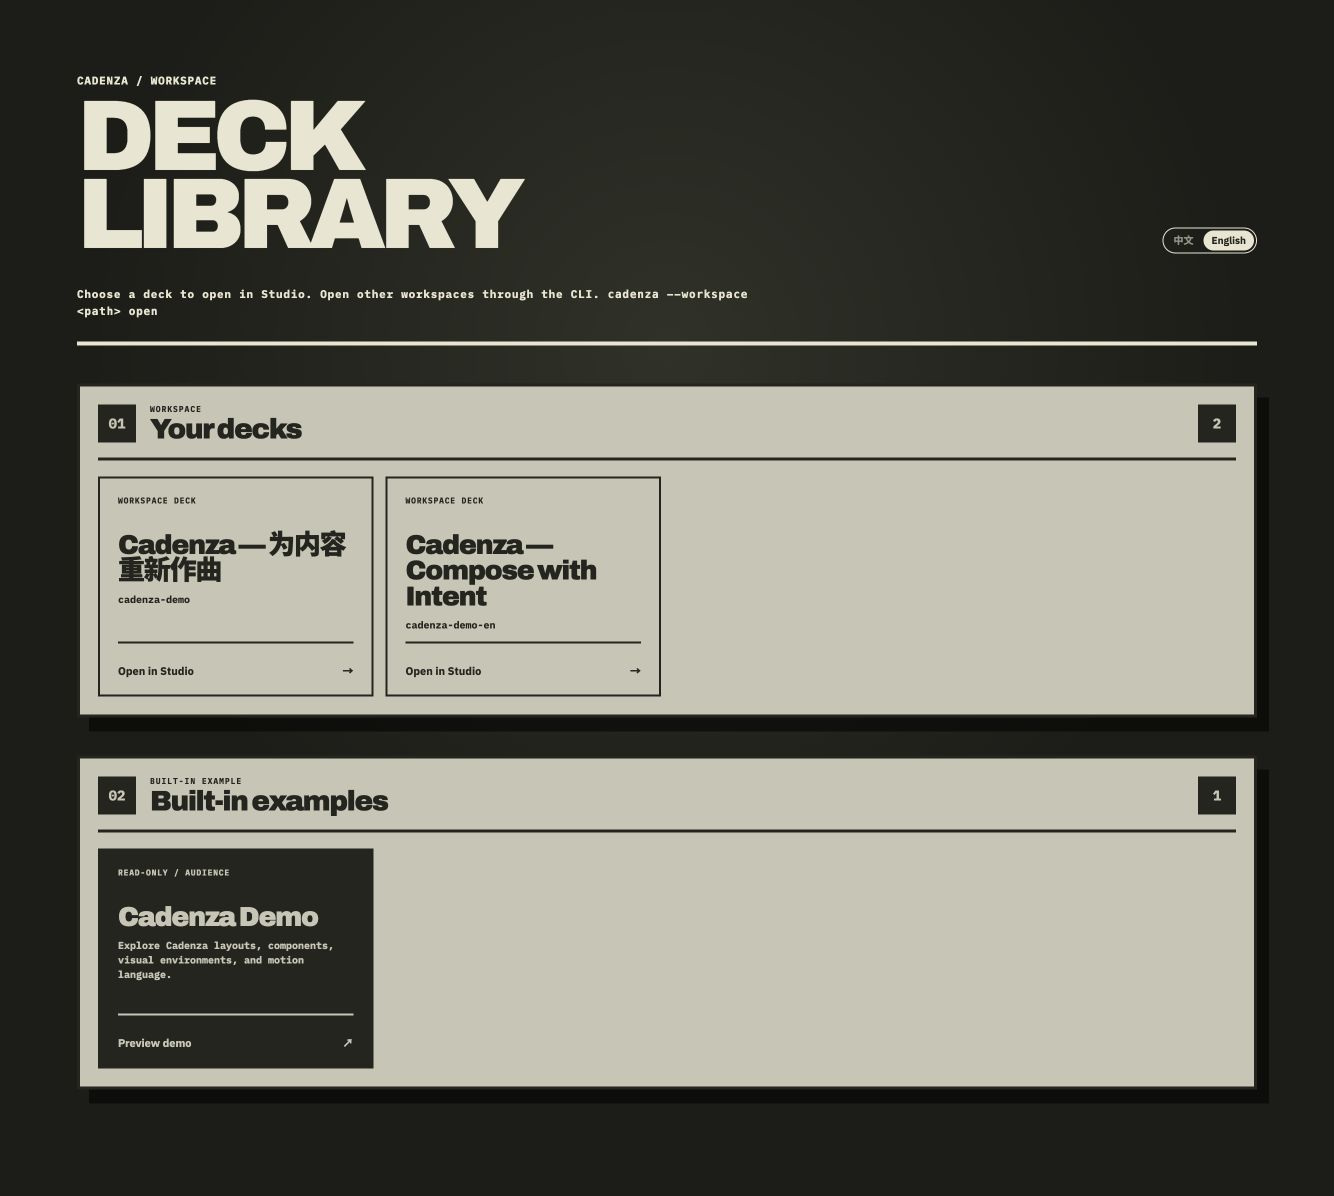
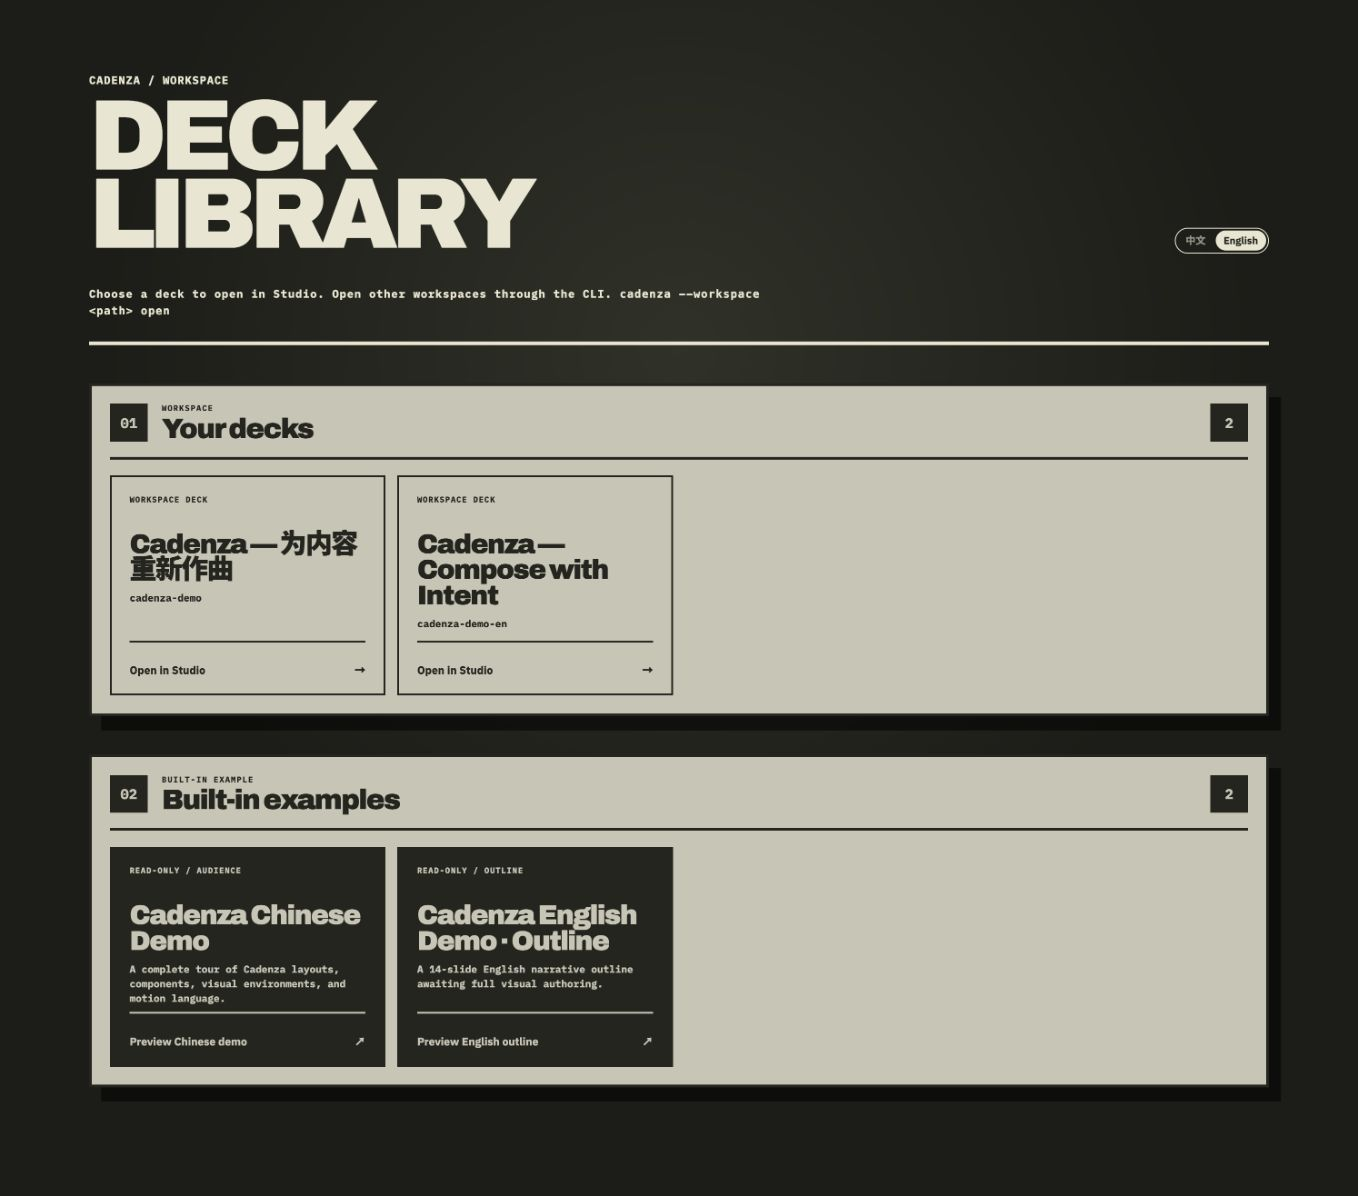
feat: offer Chinese and English demos

Changed region(s): [[0.0615, 0.3094, 0.9528, 0.9281], [0.0615, 0.0619, 0.3996, 0.2784], [0.8606, 0.1856, 0.9528, 0.2166]]

diff --git a/src/i18n/ui-locale.ts b/src/i18n/ui-locale.ts
@@ -22,7 +22,8 @@ const copy = {
       inspectEnabled: 'Inspect 已开启 · 点击画布中的元素', editTarget: (label: string) => `修改 ${label}`, update: '更新', updateQueue: '更新修改队列', addQueue: '加入修改队列', inspectSummary: (count: number, ids: string[]) => `${count} 个页面${count ? ` · ${ids.join('、')}` : ''}`, canCopy: '可以复制给 Agent', fillRequest: '请填写修改要求', queueCleared: '修改队列已清空', copiedEdits: (count: number) => `已复制 ${count} 条修改请求。回到 Codex 粘贴，Agent 修改完成后这里会通知你重新载入`, emptyEdits: '请先填写至少一条修改要求', clipboardFailed: '复制失败，请检查浏览器剪贴板权限', editQueueLabel: (summary: string) => `修改队列：${summary}`, removeEdit: (label: string) => `移除 ${label}`, remove: '移除', nonTextElement: '非文本元素', agentInstructionPlaceholder: '告诉 Agent 这个元素需要怎样调整……', agentInstructionLabel: (label: string) => `${label} 的修改要求`, inspectPolish: '润色这个元素，使表达更自然、准确，并保持原有语气。', inspectLonger: '让这个元素更详细，补充必要信息但不要改变核心意思。', inspectShorter: '让这个元素更精简，保留核心信息和原有语气。', inspectVerify: '核实这个元素中的事实、数字和表述，并修正不准确之处。',
     },
     library: {
-      intro: '选择一份 deck 进入 Studio。其他 workspace 可通过 CLI 打开。', yourDecks: '你的 Deck', examples: '系统示例', empty: '当前 workspace 还没有 deck。你可以先预览系统 Demo，或使用 CLI 创建一份新 deck。', demoDescription: '了解 Cadenza 的核心 layout、组件、视觉环境与动效语言。', previewDemo: '预览 Demo', openStudio: '在 Studio 中打开',
+      intro: '选择一份 deck 进入 Studio。其他 workspace 可通过 CLI 打开。', yourDecks: '你的 Deck', examples: '系统示例', empty: '当前 workspace 还没有 deck。你可以先预览系统 Demo，或使用 CLI 创建一份新 deck。', openStudio: '在 Studio 中打开',
+      chineseDemo: 'Cadenza 中文 Demo', englishDemo: 'Cadenza English Demo · Outline', chineseDemoDescription: '完整展示 Cadenza 的 layout、组件、视觉环境与动效语言。', englishDemoDescription: '14 页英文叙事大纲；完整视觉创作尚待确认。', previewChineseDemo: '预览中文 Demo', previewEnglishDemo: '预览英文大纲',
     },
     overview: { hasNotes: '包含演讲者注释', noNotes: '无演讲者注释', preview: '放大预览', copyId: '复制 ID', copied: '已复制', search: '搜索', searchLabel: '搜索 slide 标题或 ID', searchPlaceholder: '标题或 slide ID', group: 'Group', groupLabel: '按 group 筛选', allGroups: '全部', region: 'Slide Overview', separator: '：', outlineCheckpoint: '大纲确认点', completeDeck: '完整 Deck', outlineSlides: '大纲页面', slides: '页面', closePreview: '关闭放大预览' },
     gallery: { title: '版式与组件参考', intro: '这里用于查看能力，不会把视觉选择写入 deck。', close: '关闭', search: '搜索', searchLabel: '搜索 Design Library', openPreview: (label: string) => `放大预览 ${label}`, copyComposition: '复制 composition tree', copiedComposition: '已复制 composition tree', copyFailed: '复制失败', masterEyebrow: 'DECK MASTER / 只读', masterTitle: '当前演示文稿母版', masterIntro: '修改请直接告诉 Agent；更新后会统一应用并复查所有页面。', masterAria: 'Deck Master', masterStatus: '三层母板', masterPreview: '放大预览 ↗', masterComposition: '同一页面同时展示固定元素、已填占位符与自由对象' },
@@ -48,7 +49,8 @@ const copy = {
       inspectEnabled: 'Inspect enabled · select an element on the canvas', editTarget: (label: string) => `Edit ${label}`, update: 'Update', updateQueue: 'Update edit queue', addQueue: 'Add to edit queue', inspectSummary: (count: number, ids: string[]) => `${count} slide${count === 1 ? '' : 's'}${count ? ` · ${ids.join(', ')}` : ''}`, canCopy: 'Ready to copy for Agent', fillRequest: 'Enter a change request', queueCleared: 'Edit queue cleared', copiedEdits: (count: number) => `Copied ${count} edit request${count === 1 ? '' : 's'}. Paste in Codex; reload notice will appear after the Agent finishes`, emptyEdits: 'Enter at least one change request first', clipboardFailed: 'Copy failed; check browser clipboard permissions', editQueueLabel: (summary: string) => `Edit queue: ${summary}`, removeEdit: (label: string) => `Remove ${label}`, remove: 'Remove', nonTextElement: 'Non-text element', agentInstructionPlaceholder: 'Tell the Agent how this element should change…', agentInstructionLabel: (label: string) => `Change request for ${label}`, inspectPolish: 'Polish this element for clarity and natural phrasing while preserving its tone.', inspectLonger: 'Add useful detail to this element without changing its core meaning.', inspectShorter: 'Make this element more concise while preserving its core meaning and tone.', inspectVerify: 'Verify the facts, numbers, and wording in this element and correct any inaccuracies.',
     },
     library: {
-      intro: 'Choose a deck to open in Studio. Open other workspaces through the CLI.', yourDecks: 'Your decks', examples: 'Built-in examples', empty: 'This workspace has no decks yet. Preview the system demo or create a deck with the CLI.', demoDescription: 'Explore Cadenza layouts, components, visual environments, and motion language.', previewDemo: 'Preview demo', openStudio: 'Open in Studio',
+      intro: 'Choose a deck to open in Studio. Open other workspaces through the CLI.', yourDecks: 'Your decks', examples: 'Built-in examples', empty: 'This workspace has no decks yet. Preview the system demo or create a deck with the CLI.', openStudio: 'Open in Studio',
+      chineseDemo: 'Cadenza Chinese Demo', englishDemo: 'Cadenza English Demo · Outline', chineseDemoDescription: 'A complete tour of Cadenza layouts, components, visual environments, and motion language.', englishDemoDescription: 'A 14-slide English narrative outline awaiting full visual authoring.', previewChineseDemo: 'Preview Chinese demo', previewEnglishDemo: 'Preview English outline',
     },
     overview: { hasNotes: 'Includes speaker notes', noNotes: 'No speaker notes', preview: 'Open preview', copyId: 'Copy ID', copied: 'Copied', search: 'Search', searchLabel: 'Search slide title or ID', searchPlaceholder: 'Title or slide ID', group: 'Group', groupLabel: 'Filter by group', allGroups: 'All groups', region: 'Slide overview', separator: ': ', outlineCheckpoint: 'OUTLINE CHECKPOINT', completeDeck: 'COMPLETE DECK', outlineSlides: 'OUTLINE SLIDES', slides: 'SLIDES', closePreview: 'Close enlarged preview' },
     gallery: { title: 'Layouts and component reference', intro: 'Browse system capabilities without writing visual choices into the deck.', close: 'Close', search: 'Search', searchLabel: 'Search Design Library', openPreview: (label: string) => `Open preview: ${label}`, copyComposition: 'Copy composition tree', copiedComposition: 'Composition tree copied', copyFailed: 'Copy failed', masterEyebrow: 'DECK MASTER / READ ONLY', masterTitle: 'Current deck master', masterIntro: 'Ask the Agent to change the master; updates apply consistently and every slide is reviewed again.', masterAria: 'Deck Master', masterStatus: 'Three-layer master', masterPreview: 'Open preview ↗', masterComposition: 'One slide showing fixed elements, filled placeholders, and free objects together' },

diff --git a/src/apps/browser/deck-library.ts b/src/apps/browser/deck-library.ts
@@ -9,6 +9,8 @@ export interface DeckLibraryEntry {
 
 export function renderDeckLibrary(decks: readonly DeckLibraryEntry[], error?: string, locale: UiLocale = 'zh-CN', currentHref = '?view=decks') {
   const text = uiText(locale).library
+  const chineseDemoHref = escapeHtml(localizeHref('?view=audience&source=demo&demo=zh-CN', locale))
+  const englishDemoHref = escapeHtml(localizeHref('?view=audience&source=demo&demo=en', locale))
   const workspaceDecks = error
     ? `<p class="deck-library-empty" role="alert">${escapeHtml(error)}</p>`
     : decks.length
@@ -26,13 +28,19 @@ export function renderDeckLibrary(decks: readonly DeckLibraryEntry[], error?: st
       ${workspaceDecks}
     </section>
     <section class="deck-library-section" aria-labelledby="example-decks-title">
-      <div class="deck-library-section-heading"><span>02</span><div><p>BUILT-IN EXAMPLE</p><h2 id="example-decks-title">${text.examples}</h2></div><strong>1</strong></div>
+      <div class="deck-library-section-heading"><span>02</span><div><p>BUILT-IN EXAMPLE</p><h2 id="example-decks-title">${text.examples}</h2></div><strong>2</strong></div>
       <div class="deck-library-grid">
-        <article class="deck-library-card deck-library-demo" data-testid="system-demo-deck">
+        <article class="deck-library-card deck-library-demo" data-testid="system-demo-deck-zh-CN">
           <span class="deck-library-card-kind">READ-ONLY / AUDIENCE</span>
-          <h3>Cadenza Demo</h3>
-          <p>${text.demoDescription}</p>
-          <a href="${escapeHtml(localizeHref('?view=audience&source=demo', locale))}">${text.previewDemo} <span aria-hidden="true">↗</span></a>
+          <h3>${text.chineseDemo}</h3>
+          <p>${text.chineseDemoDescription}</p>
+          <a href="${chineseDemoHref}">${text.previewChineseDemo} <span aria-hidden="true">↗</span></a>
+        </article>
+        <article class="deck-library-card deck-library-demo" data-testid="system-demo-deck-en">
+          <span class="deck-library-card-kind">READ-ONLY / OUTLINE</span>
+          <h3>${text.englishDemo}</h3>
+          <p>${text.englishDemoDescription}</p>
+          <a href="${englishDemoHref}">${text.previewEnglishDemo} <span aria-hidden="true">↗</span></a>
         </article>
       </div>
     </section>

diff --git a/tests/e2e/ui-locale.spec.ts b/tests/e2e/ui-locale.spec.ts
@@ -5,9 +5,21 @@ test('keeps English UI chrome across Decks, Studio, Design Library, Overview, an
   await expect(page.locator('html')).toHaveAttribute('lang', 'en')
   await expect(page.getByRole('heading', { name: 'Your decks' })).toBeVisible()
   expect((await page.locator('[data-ui-locale-switcher]').boundingBox())?.width).toBeLessThan(180)
-  await page.getByTestId('system-demo-deck').getByRole('link', { name: 'Preview demo' }).click()
-  await expect(page).toHaveURL(/view=audience.*source=demo.*lang=en/)
+  await page.getByTestId('system-demo-deck-zh-CN').getByRole('link', { name: 'Preview Chinese demo' }).click()
+  await expect(page).toHaveURL(/view=audience.*source=demo.*demo=zh-CN.*lang=en/)
+  await expect(page.getByText('不是模板', { exact: true })).toBeVisible()
+  const chineseSlides = page.locator('[data-slide-id]')
+  expect(await chineseSlides.count()).toBeGreaterThan(20)
+  expect(await chineseSlides.evaluateAll(slides => slides.every(slide => Boolean(slide.textContent?.trim())))).toBe(true)
+
+  await page.goto('/?view=decks&lang=en')
+  await page.getByTestId('system-demo-deck-en').getByRole('link', { name: 'Preview English outline' }).click()
+  await expect(page).toHaveURL(/view=audience.*source=demo.*demo=en.*lang=en/)
   await expect(page.getByText('Compose With Intent', { exact: true })).toBeVisible()
+  const englishSlides = page.locator('[data-slide-id]')
+  await expect(englishSlides).toHaveCount(14)
+  expect(await englishSlides.evaluateAll(slides => slides.every(slide => Boolean(slide.textContent?.trim())))).toBe(true)
+  expect(await page.locator('body').innerText()).not.toMatch(/undefined|\[object Object\]/)
 
   await page.goto('/?view=studio&deck=cadenza-demo&lang=en#/1')
   await expect(page.locator('html')).toHaveAttribute('lang', 'en')

diff --git a/src/apps/browser/deck-library.test.ts b/src/apps/browser/deck-library.test.ts
@@ -13,8 +13,10 @@ describe('renderDeckLibrary', () => {
     expect(html).toContain('Product &amp; Story')
     expect(html).toContain('?view=studio&amp;deck=research-story')
     expect(html).toContain('?view=studio&amp;deck=product-story')
-    expect(html).toContain('data-testid="system-demo-deck"')
-    expect(html).toContain('?view=audience&amp;source=demo')
+    expect(html).toContain('data-testid="system-demo-deck-zh-CN"')
+    expect(html).toContain('data-testid="system-demo-deck-en"')
+    expect(html).toContain('?view=audience&amp;source=demo&amp;demo=zh-CN&amp;lang=zh-CN')
+    expect(html).toContain('?view=audience&amp;source=demo&amp;demo=en&amp;lang=zh-CN')
     expect(html).not.toContain('/talks/decks')
   })
 
@@ -22,7 +24,8 @@ describe('renderDeckLibrary', () => {
     const html = renderDeckLibrary([])
 
     expect(html).toContain('当前 workspace 还没有 deck')
-    expect(html).toContain('data-testid="system-demo-deck"')
+    expect(html).toContain('data-testid="system-demo-deck-zh-CN"')
+    expect(html).toContain('data-testid="system-demo-deck-en"')
   })
 
   it('renders English library copy and locale-preserving deck links', () => {
@@ -31,6 +34,8 @@ describe('renderDeckLibrary', () => {
     expect(html).toContain('Your decks')
     expect(html).toContain('Open in Studio')
     expect(html).toContain('?view=studio&amp;deck=demo&amp;lang=en')
+    expect(html).toContain('?view=audience&amp;source=demo&amp;demo=zh-CN&amp;lang=en')
+    expect(html).toContain('?view=audience&amp;source=demo&amp;demo=en&amp;lang=en')
     expect(html).toContain('data-ui-locale-switcher')
     expect(html).not.toContain('你的 Deck')
   })

diff --git a/src/apps/browser/open-browser-deck.test.ts b/src/apps/browser/open-browser-deck.test.ts
@@ -15,11 +15,17 @@ describe('openBrowserDeck', () => {
     expect(fetchMock).not.toHaveBeenCalled()
   })
 
-  it('loads the English bundled Demo for the English interface', async () => {
-    const repository = await openBrowserDeck(new URL('http://local/?view=audience&source=demo&lang=en'), false)
+  it('loads the explicitly selected English bundled Demo independently of the interface language', async () => {
+    const repository = await openBrowserDeck(new URL('http://local/?view=audience&source=demo&demo=en&lang=zh-CN'), false)
 
     expect(repository.document.id).toBe('cadenza-demo-en')
     expect(repository.document.slides.opening).toMatchObject({ label: 'Compose With Intent' })
+  })
+
+  it('loads the explicitly selected Chinese bundled Demo independently of the interface language', async () => {
+    const repository = await openBrowserDeck(new URL('http://local/?view=audience&source=demo&demo=zh-CN&lang=en'), false)
+
+    expect(repository.document.id).toBe('cadenza-demo')
   })
 
   it('does not turn a production workspace failure into the Demo', async () => {

diff --git a/src/apps/browser/open-browser-deck.ts b/src/apps/browser/open-browser-deck.ts
@@ -1,8 +1,8 @@
 import { BrowserDeckRepository } from '../../platform/browser/browser-deck-repository'
-import { resolveUiLocale } from '../../i18n/ui-locale'
+import { normalizeUiLocale, resolveUiLocale } from '../../i18n/ui-locale'
 
 export async function openBrowserDeck(currentUrl: URL, allowDevelopmentFallback = import.meta.env.DEV) {
-  if (currentUrl.searchParams.get('source') === 'demo') return openDemoDeck(resolveUiLocale(currentUrl))
+  if (currentUrl.searchParams.get('source') === 'demo') return openDemoDeck(normalizeUiLocale(currentUrl.searchParams.get('demo')) ?? resolveUiLocale(currentUrl))
   try {
     return await BrowserDeckRepository.open(currentUrl)
   } catch (error) {
